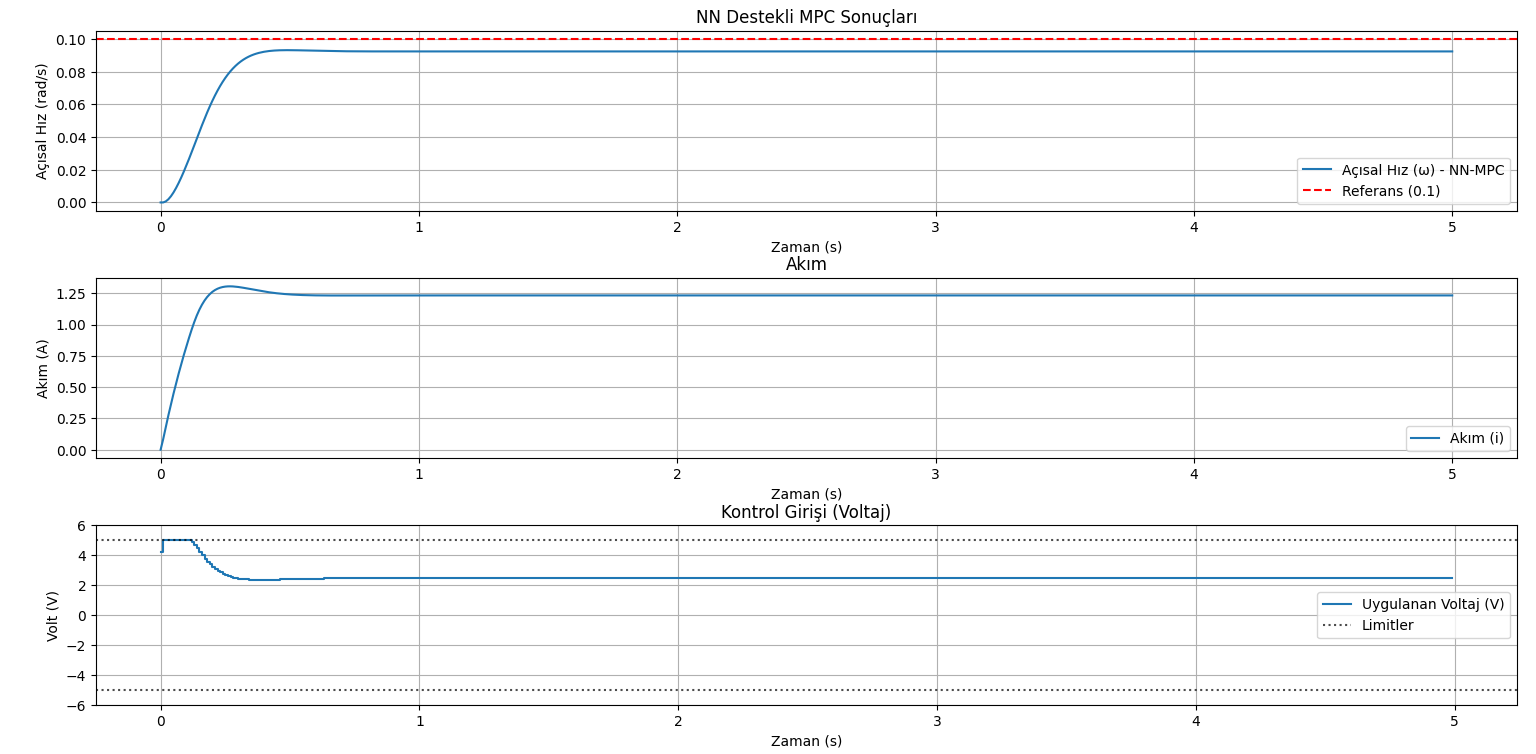
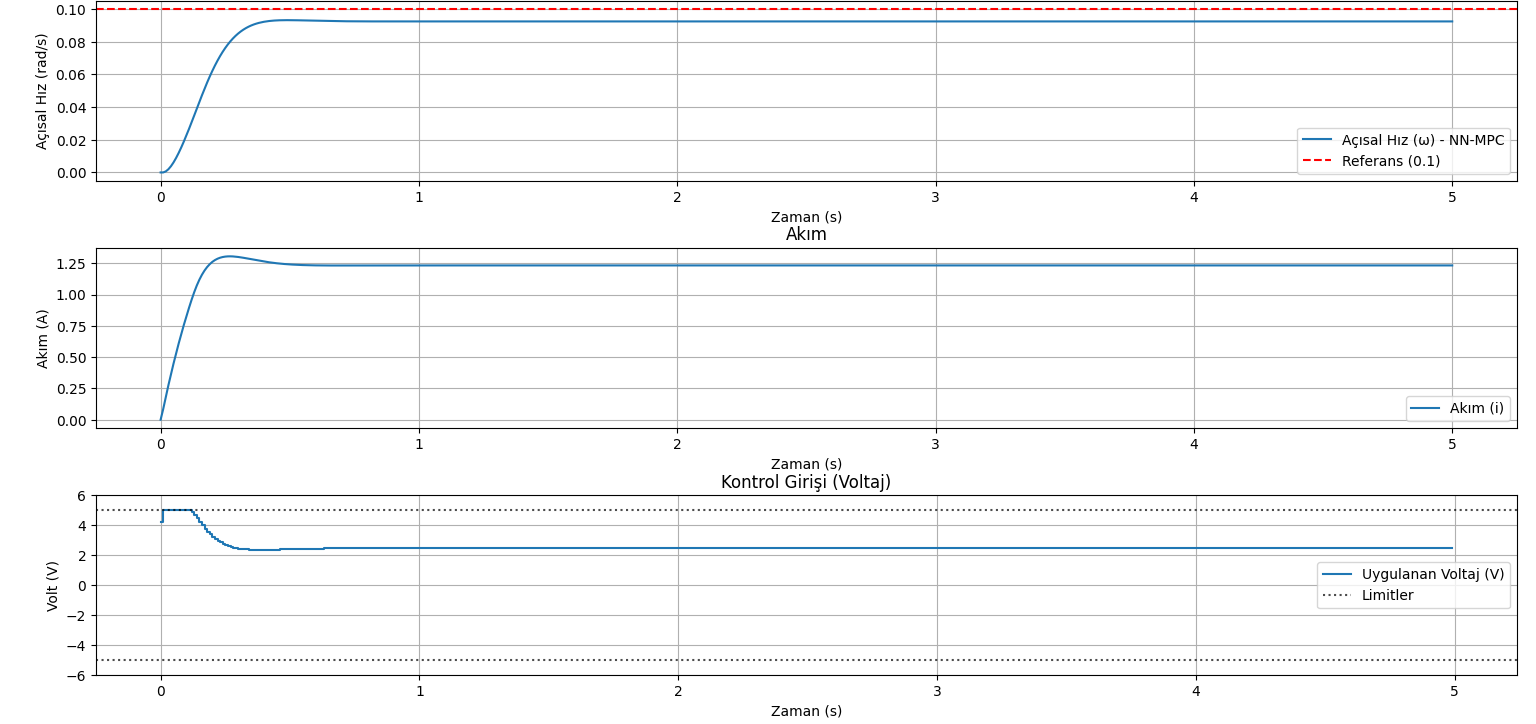
Folder Structure

diff --git a/project-E/PyTorch/RAPOR.tex b/project-E/PyTorch/RAPOR.tex
@@ -1,0 +1,134 @@
+
+\documentclass[a4paper,12pt]{article}
+\usepackage[utf8]{inputenc}
+\usepackage{graphicx}
+\usepackage{amsmath}
+\usepackage{caption}
+\usepackage{subcaption}
+\usepackage{geometry}
+\geometry{margin=2.5cm}
+
+\title{Yapay Sinir Ağı Destekli Model Predictive Control Uygulaması}
+\author{Yıldız Akpolat}
+\date{\today}
+
+\begin{document}
+
+\maketitle
+
+\section{Giriş}
+Bu çalışmada, yapay sinir ağı (YSA) destekli bir Model Predictive Control (MPC) uygulaması geliştirilmiştir. Amaç, klasik kontrol yöntemleriyle modellenmesi güç olan sistemler için YSA destekli veri odaklı modelleme yaklaşımlarının kontrolcü tasarımında nasıl kullanılabileceğini göstermektir. Örnek sistem olarak, diferansiyel denklem temelli bir DC motor kullanılmıştır.
+
+\section{Modelleme ve Veri Toplama}
+DC motorun matematiksel modeli aşağıdaki şekilde tanımlanır:
+
+\[
+\dot{x} = Ax + Bu,\quad y = Cx + Du
+\]
+
+Motorun sürekli zamanlı durumu:
+
+\[
+A = \begin{bmatrix}
+-\frac{R}{L} & -\frac{K_e}{L} \\
+\frac{K_t}{J} & -\frac{B}{J}
+\end{bmatrix}, \quad
+B = \begin{bmatrix}
+\frac{1}{L} \\
+0
+\end{bmatrix}
+\]
+
+Bu model Euler ayrıklaştırması ile simülasyonlara hazır hale getirilmiştir. Eğitim verisi oluşturmak için sistemin girişine rastgele sinyaller uygulanmış ve karşılık gelen akım (\(i\)) ve açısal hız (\(\omega\)) verileri toplanmıştır.
+
+\begin{figure}[h!]
+  \centering
+  \includegraphics[width=0.45\textwidth]{331550cc-e521-49f4-a342-fab9fad6a929.png}
+  \caption{Veri Toplama: Uygulanan Giriş ve Çıkış (Açısal Hız)}
+\end{figure}
+
+\section{Yapay Sinir Ağı ile Model Öğrenme}
+Toplanan veriler kullanılarak giriş-çıkış ilişkisini öğrenecek şekilde bir yapay sinir ağı eğitilmiştir. Giriş vektörü: \( z = [i(k), \omega(k), u(k)] \) ve çıktı vektörü \( x(k+1) = [i(k+1), \omega(k+1)] \) olacak şekilde modelleme yapılmıştır.
+
+Kayıp fonksiyonu olarak Ortalama Kare Hata (MSE) kullanılmıştır:
+
+\[
+\mathcal{L} = \frac{1}{N} \sum_{k=1}^{N} \| \hat{y}_k - y_k \|^2
+\]
+
+Eğitim ve test kayıplarının eğrisi aşağıda verilmiştir.
+
+\begin{figure}[h!]
+  \centering
+  \includegraphics[width=0.45\textwidth]{eigitim_test_kayiplari.png}
+  \caption{Eğitim ve Test Kayıpları}
+\end{figure}
+
+\section{Açık Çevrim Doğrulama}
+Eğitilen NN modeli, ayrı bir test seti üzerinde doğrulanmıştır.
+
+\begin{figure}[h!]
+  \centering
+  \includegraphics[width=0.45\textwidth]{nn_acik_cevrim_dogrulama.png}
+  \caption{NN Açık Çevrim Doğrulama Sonuçları}
+\end{figure}
+
+\section{Model Predictive Control Tasarımı}
+
+\subsection{Klasik MPC}
+Gerçek model bilgisi (sistem matrisleri A ve B) kullanılarak klasik bir MPC yapılandırılmıştır. Hedef açısal hız 0.1 rad/s olarak belirlenmiştir.
+
+\begin{figure}[h!]
+  \centering
+  \includegraphics[width=0.45\textwidth]{true_model_mpc.png}
+  \caption{Gerçek Model ile MPC Kontrolü Sonuçları}
+\end{figure}
+
+\subsection{NN Destekli MPC - Doğrudan Kullanım}
+Eğitilen sinir ağı modeli doğrudan MPC içinde kullanılmıştır.
+
+\begin{figure}[h!]
+  \centering
+  \includegraphics[width=0.45\textwidth]{nn_model_mpc1.png}
+  \caption{NN Modeli ile MPC Kontrolü (Lineerleştirme Yok)}
+\end{figure}
+
+\subsection{NN Destekli MPC - Lineerleştirilmiş}
+Her zaman adımında modelin girdi etrafında Jacobian matrisleri hesaplanarak elde edilen lokal doğrusal model kullanılmıştır.
+
+\begin{figure}[h!]
+  \centering
+  \includegraphics[width=0.45\textwidth]{nn_model_mpc2.png}
+  \caption{NN Modeli ile MPC Kontrolü (Jacobian Yaklaşımı)}
+\end{figure}
+
+\section{Sonuçların Değerlendirilmesi}
+
+\textbf{Hedef Takibi:} Açısal hız 0.1 rad/s'ye yaklaşık 2.5s'de ulaşmaktadır. Başlangıçta salınımlar olsa da sonuç stabildir.
+
+\textbf{Kontrol Sinyali:} Voltaj, sıfır civarında değil, sistemin dinamiğine uygun şekilde 2.2V civarında kararlı hale gelmiştir.
+
+\textbf{Yorum:} NN destekli MPC, daha yavaş yanıt göstermektedir. Bu durum:
+\begin{itemize}
+    \item NN modelin yaklaşık olması,
+    \item Lineerleştirmenin sadece lokal doğruluk sunması,
+    \item Kararlılığı sağlamak için daha tutucu parametre ayarlarının yapılması,
+\end{itemize}
+nedeniyle oldukça doğaldır.
+
+\textbf{Açıklama:} Gerçek model MPC, sistem dinamiğini tam bilir. NN model hataları MPC'nin daha dikkatli davranmasına sebep olur. Bu da biraz daha yavaş ama güvenli sonuç anlamına gelir.
+
+\section{Neden NN-MPC Kullanılır?}
+
+NN destekli MPC'nin tercih edilmesinin ana nedenleri şunlardır:
+
+\begin{itemize}
+    \item Karmaşık ve doğrusal olmayan sistemlerin modellenmesi,
+    \item Fiziksel modeli elde etmenin zor veya imkânsız olduğu durumlar,
+    \item Veriye dayalı sistem kontrolü imkânı sunması,
+    \item Parametre belirsizliklerine karşı dayanıklılık sağlaması.
+\end{itemize}
+
+Bu çalışmada, basit bir sistemde bile NN destekli MPC'nin başarıyla uygulanabileceği ve daha karmaşık sistemlerde kullanılmak üzere güçlü bir temel oluşturabileceği gösterilmiştir.
+
+\end{document}
